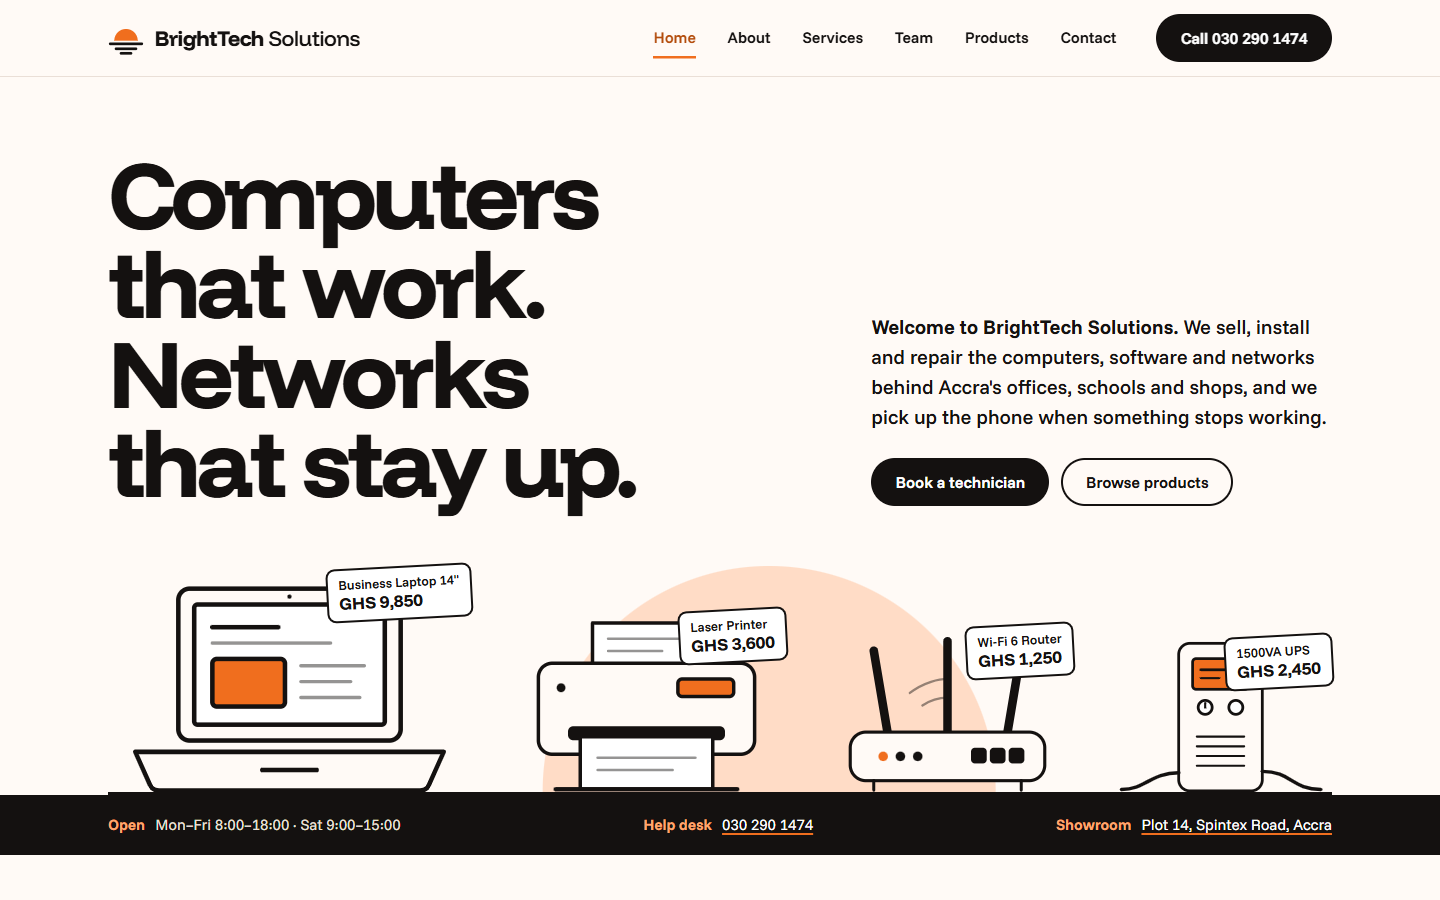
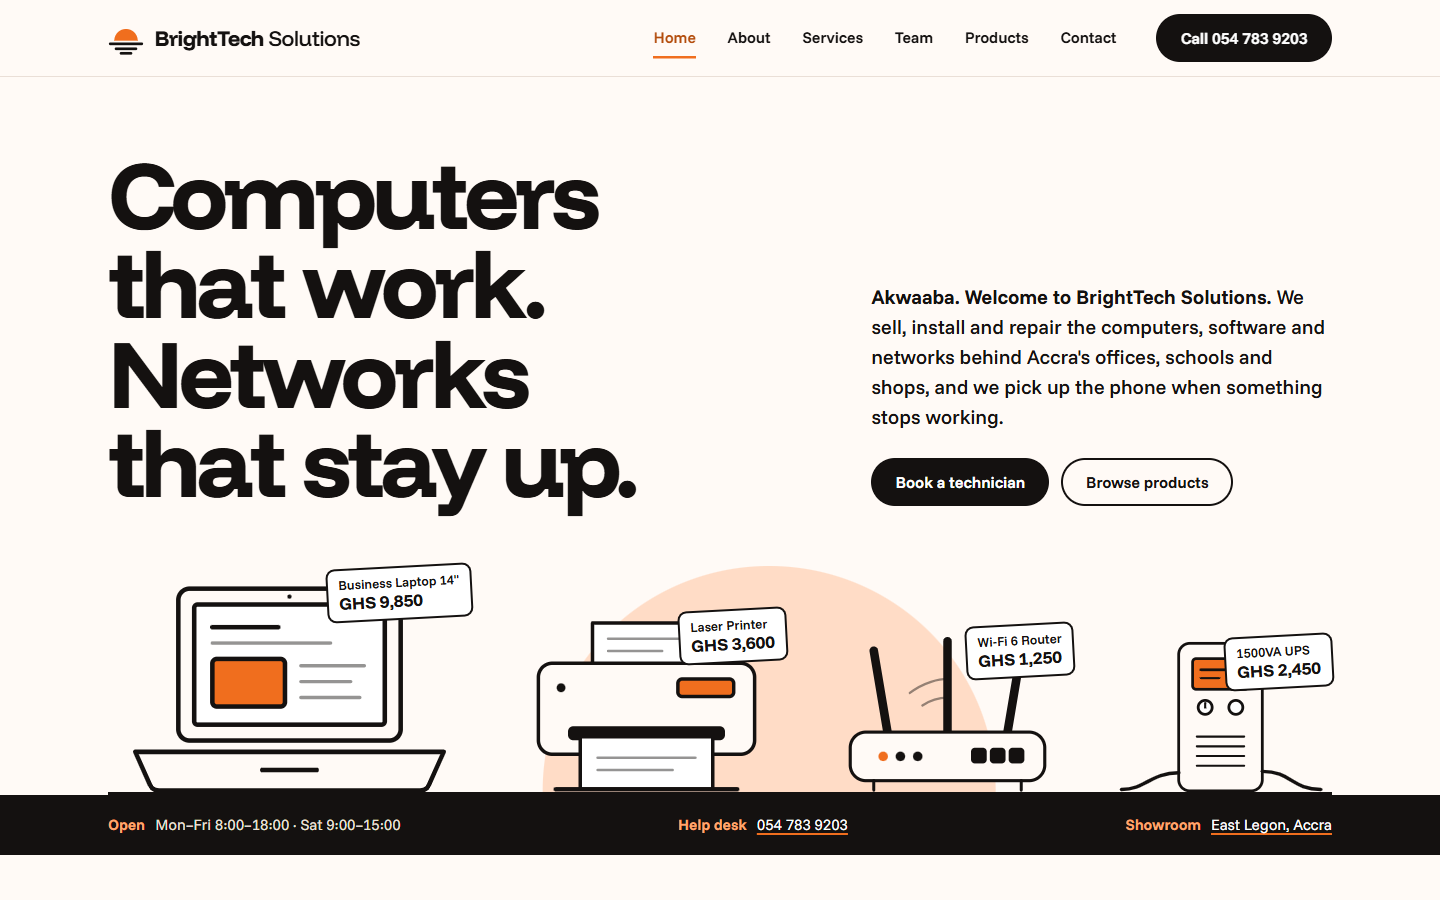
Update the README and screenshots for the new details and the embedded map

diff --git a/README.md b/README.md
@@ -5,7 +5,7 @@ and supports computer hardware, software, networking and IT support.
 
 Built for the Web Technologies practical assignment (Level 300, first semester, Knutsford University)
 using **HTML and CSS only**: no JavaScript, no Bootstrap or other frameworks, and no external
-libraries. Every file the site uses is in this repository.
+libraries. Every file the site uses is in this repository; the one outside item is the embedded Google Map on the Contact page.
 
 **Live site:** https://plinxxdarkseid.github.io/brighttech-solutions/
 
@@ -47,10 +47,10 @@ libraries. Every file the site uses is in this repository.
 | Hyperlinks `<a>` | Navigation, buttons, footer | every page |
 | Images `<img>` | Logo, product drawings, service icons, team photographs | every page |
 | Video `<video>` | "BrightTech in half a minute" film, with English captions (`<track>`) | `index.html` |
-| Audio `<audio>` | Recorded support-line greeting | `contact.html` |
+| Audio `<audio>` | Spoken help desk message with hours, location and number | `contact.html` |
 | Email link `mailto:` | Contact details; every product's "Order by email" link pre-fills the subject | `contact.html`, `products.html`, footer |
 | Telephone link `tel:` | Header button, contact details, footer | every page |
-| Google Maps link | Showroom address | `index.html`, `contact.html`, footer |
+| Google Maps link | Showroom address, plus an embedded map (`<iframe>`) | `index.html`, `contact.html`, footer |
 
 ---
 
@@ -83,7 +83,7 @@ the logo returns behind each page title.
 - Every form field has a `<label>`; every image has `alt` text (decorative icons use `alt=""`).
 - Skip link, visible keyboard focus everywhere, colour contrast checked for projectors.
 - Every page passes the W3C HTML checker with no errors.
-- Tested at eight widths from 1920px to 360px with no sideways scrolling, and with no files loaded from
+- Tested at eight widths from 1920px to 360px with no sideways scrolling, and with nothing but the map loaded from
   outside this repository.
 
 ---
@@ -103,7 +103,7 @@ style.css           all styling, for every page
 favicon.svg         browser tab icon
 fonts/              Funnel Display and Funnel Sans (SIL Open Font License, see fonts/OFL.txt)
 images/             logo, product drawings, service icons, team photographs, link preview
-media/              brand film (MP4), its captions (VTT) and poster, support-line audio (MP3)
+media/              brand film (MP4), its captions (VTT) and poster, help desk message (MP3)
 docs/               screenshots for this README
 ```
 
@@ -116,7 +116,7 @@ docs/               screenshots for this README
 ## Credits
 
 - Illustrations, icons and logo: original SVG drawings made for this site.
-- Brand film: animated in HTML and CSS, rendered to MP4; voice-over and support-line greeting
-  recorded with a neural text-to-speech voice.
+- Brand film: animated in HTML and CSS, rendered to MP4; voice-over and help desk message
+  recorded with neural text-to-speech voices.
 - Fonts: Funnel Display and Funnel Sans, © The Funnel Project Authors, SIL Open Font License 1.1.
 - BrightTech Solutions, its prices and address are fictional, created for this assignment.
